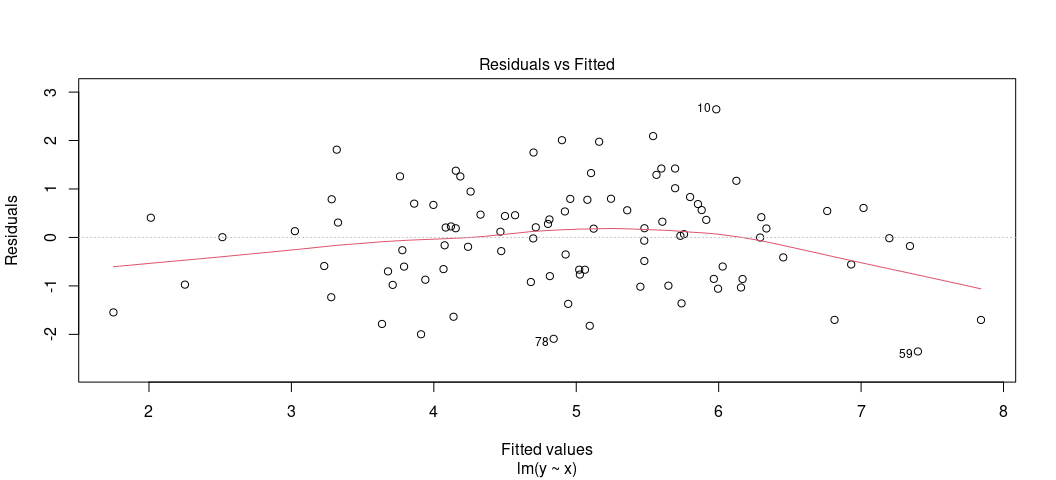
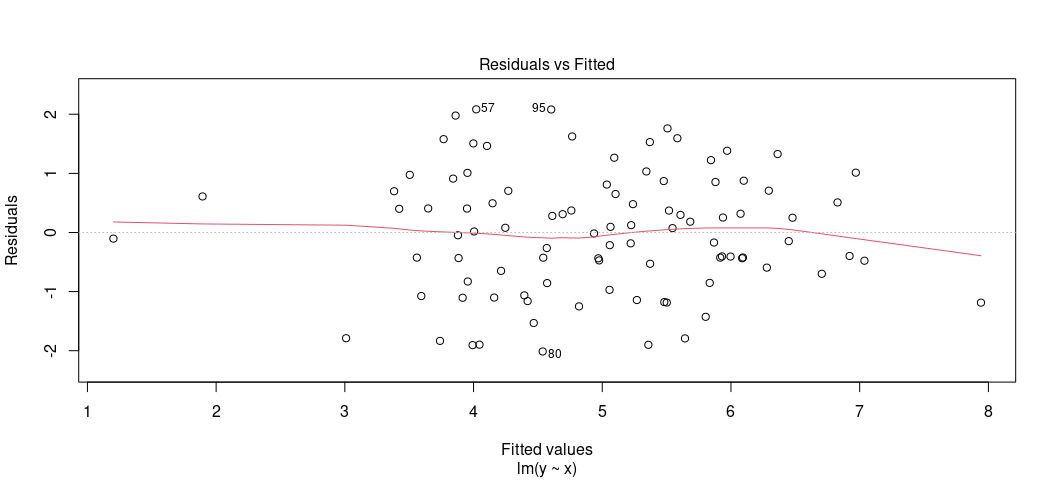
update

diff --git a/scripts/linear-models.md b/scripts/linear-models.md
@@ -428,10 +428,15 @@ for each right-hand side variable, draws a rise-over-run line of best
 fit and the LOESS smoother with respect to either the residuals
 (default) or the raw values of the dependent variable. Do note this
 tells you nothing about binary IVs, but binary IVs aren’t the problem
-here.
+here. It’s why you can (and probably should) set `no_dummies` to `TRUE`.
+Alternatively, `se = FALSE` suppresses the error bounds of the smoother
+in the case that they’re so large they make things less visible.
+Further, you can adjust the `span` argument if there are *really*
+extreme outliers. The default is .75. Higher values (1 - 2 should be
+fine) will dampen the effect of extreme observations.
 
 ``` r
-linloess_plot(M2, pch=21, se = FALSE) 
+linloess_plot(M2, pch=21, se = FALSE, span = 1, no_dummies = TRUE) 
 #> `geom_smooth()` using formula = 'y ~ x'
 #> `geom_smooth()` using formula = 'y ~ x'
 ```
